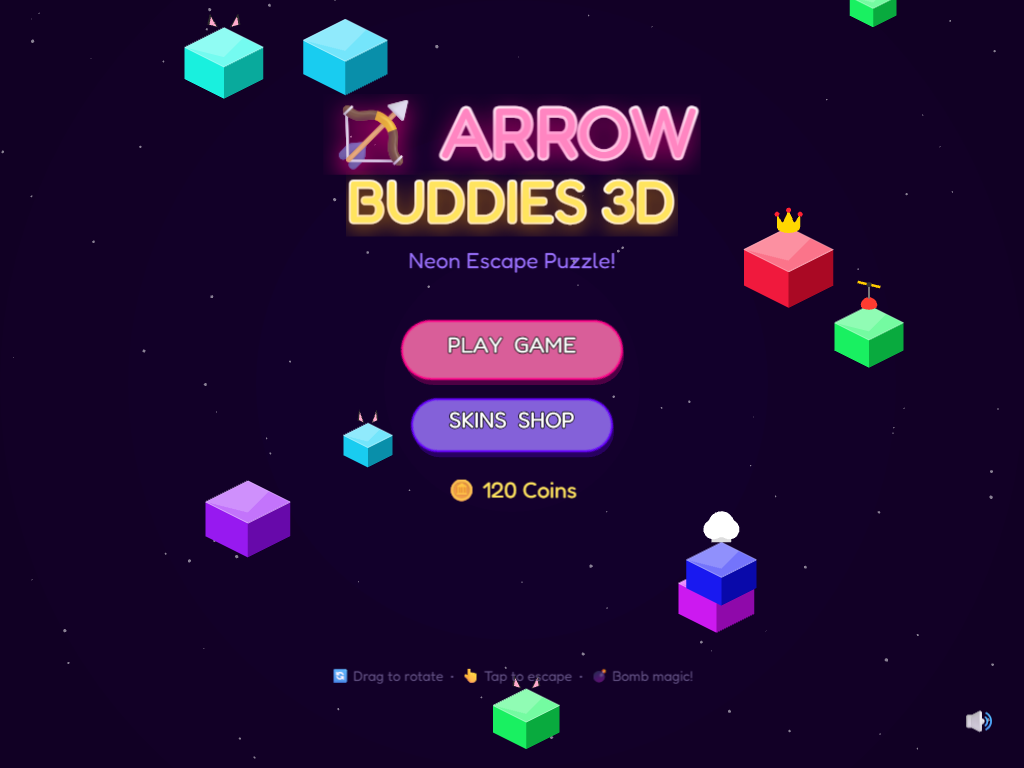
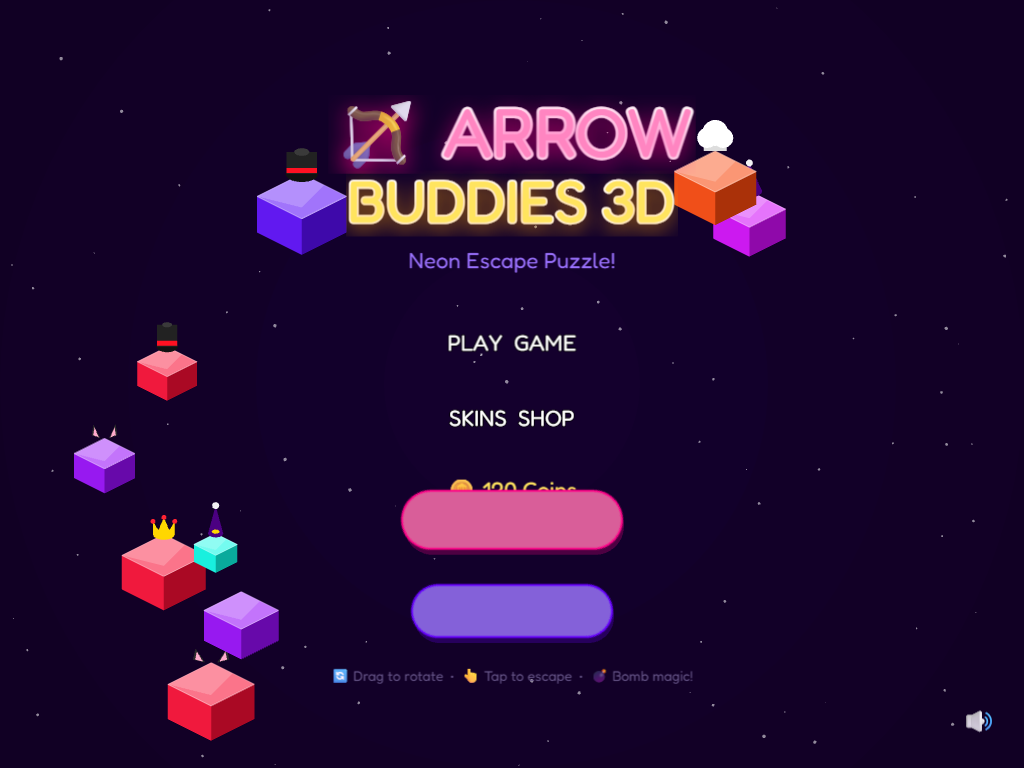
readme

diff --git a/README.md b/README.md
@@ -1,27 +1,144 @@
-# 🏹 Arrow Buddies 3D — Мила Головоломка-Втеча! 🚀
+# 🏹 Arrow Buddies 3D — Мила Головоломка-Втеча!
+
+<p align="center">
+  <img src="assets/banner.png" alt="Arrow Buddies 3D Banner" width="100%"/>
+</p>
+
+<p align="center">
+  <strong>🌟 Неонова 3D головоломка для дітей і дорослих! 🌟</strong><br/>
+  Грай прямо в браузері — на телефоні, планшеті чи комп'ютері!
+</p>
+
+---
+
+## 📸 Скріншоти гри
+
+<table>
+  <tr>
+    <td align="center">
+      <img src="assets/menu.png" alt="Головне меню" width="460"/><br/>
+      <em>🏠 Головне меню</em>
+    </td>
+    <td align="center">
+      <img src="assets/world_select.png" alt="Вибір Світу" width="460"/><br/>
+      <em>🌍 Вибір Світу</em>
+    </td>
+  </tr>
+</table>
+
+---
+
+## 🎮 Як грати?
 
 Привіт, друже! Ласкаво просимо до **Arrow Buddies 3D** — найкрутішої та найяскравішої 3D гри-головоломки! Твої маленькі блочні друзі загубилися у великому світі і не можуть вибратися. На кожному з них намальована стрілочка, яка показує напрямок, куди вони хочуть стрибнути. Твоя мета — допомогти їм втекти!
 
-## 🎮 Як грати?
-1. **Шукай вільний шлях:** Блок може втекти тільки тоді, коли перед ним (куди показує стрілка) немає інших блоків.
-2. **Тапай (клікай) по блоку**, щоб він полетів! Якщо шлях заблоковано, він смішно вдариться об сусіда і залишиться на місці.
-3. **Очисти весь рівень**, щоб перемогти та отримати Зірки ⭐!
-4. **Використовуй мишку або палець (на телефоні)**, щоб крутити камеру і розглядати фігуру з усіх боків. Ти знайдеш заховані шляхи!
+1. 👆 **Тапай (клікай) по блоку**, щоб він полетів у свій бік!
+2. 🔍 **Шукай вільний шлях** — блок летить тільки якщо перед ним немає інших
+3. 🌀 **Крути камеру** пальцем або мишкою, щоб знайти приховані шляхи
+4. ⭐ **Очисти весь рівень** — виграй і збери зірки!
 
-## 🎁 Спеціальні блоки!
-У цій грі не все так просто, на тебе чекають сюрпризи:
-- 🌈 **Веселкові блоки:** Вони супер-круті! Летять куди завгодно, якщо шлях вільний!
-- 💣 **Бомби:** Якщо ти натиснеш на бомбу, і вона полетить, то вибухне і знищить усі інші блоки на своєму шляху!
-- 🔑 **Ключі:** Використовуй ключі, щоб...
-- 🧰 **Скрині:** ...відкривати скрині! Без ключа скриню не прибрати!
+> 💡 **Підказка:** Якщо блок вдариться об іншого, він залишиться на місці — думай наперед!
 
-## 👕 Магазин Скінів (Капелюхи!)
-Заробляй монетки 🪙 на рівнях і купуй круті 3D капелюхи для своїх друзів! 
-Ти можеш одягнути їм Корону 👑, Капелюх Чарівника 🧙♂️, Котячі Вушка 🐱, Шапку Шеф-кухаря 👨🍳 або навіть Кепку з пропелером, що крутиться!
+---
+
+## 🎁 Спеціальні блоки
+
+| Блок | Назва | Що робить |
+|------|-------|-----------|
+| 🌈 | **Веселковий** | Летить куди завгодно, якщо шлях вільний! |
+| 💣 | **Бомба** | Вибухає і знищує всі блоки на шляху! |
+| 🔑 | **Ключ** | Використовуй, щоб відкрити Скриню |
+| 🧰 | **Скриня** | Потребує Ключа — без нього не зникне |
+
+---
 
 ## 🌍 Світи
-- **Jelly Hills (Желейні Пагорби):** Легкий старт! Милі рожеві кольори та прості фігури.
-- **Dino Valley (Долина Динозаврів):** Зелені джунглі! З'являються бомби та ключі. Думай на крок вперед!
-- **Cosmo Station (Космічна Станція):** Темний космос з яскравим неоном. Тут тебе чекають справжні мега-головоломки з величезною кількістю блоків!
 
-**Бажаємо тобі успіхів, юний герой! Покажи цим блокам шлях до свободи! 🎉**
+### 🌸 Jelly Hills — Желейні Пагорби
+> Легкий старт! Милі рожеві та пурпурні кольори, прості фігури. Ідеально для початківців!
+
+### 🦕 Dino Valley — Долина Динозаврів
+> Зелені джунглі! З'являються бомби та ключі. Треба думати на кілька ходів вперед!
+
+### 🚀 Cosmo Station — Космічна Станція
+> Темний космос з яскравим неоном! Мега-головоломки з величезними структурами — тільки для справжніх героїв!
+
+---
+
+## 👕 Магазин Скінів
+
+Заробляй монетки 🪙 під час гри і купуй круті 3D капелюхи для своїх блочних друзів!
+
+| Капелюх | Назва |
+|---------|-------|
+| 🧙♂️ | Чарівний Ковпак |
+| 👑 | Золота Корона з Рубінами |
+| 🐱 | Котячі Вушка |
+| 🎩 | Елегантний Циліндр |
+| 👨🍳 | Шапка Шеф-кухаря |
+| 🌈 | Веселковий Ореол |
+| 🚁 | Кепка з Пропелером (крутиться!) |
+
+---
+
+## 🛠️ Технічний стек
+
+| Технологія | Призначення |
+|-----------|-------------|
+| **Phaser 3** | Ігровий рушій (сцени, фізика, частинки) |
+| **TypeScript** | Основна мова програмування |
+| **Vite** | Збирач та dev-сервер |
+| **Isometric Rendering** | Власний рушій ізометричної 3D графіки |
+
+---
+
+## 🚀 Як запустити?
+
+```bash
+# Встановити залежності
+npm install
+
+# Запустити в режимі розробки
+npm run dev
+
+# Зібрати для продакшн
+npm run build
+```
+
+Відкрий браузер на **http://localhost:5173/**
+
+---
+
+## 🗺️ Наступні кроки розробки (Roadmap)
+
+### 🔴 Пріоритет 1 — Критичне (Short-term)
+- [ ] **Звукові ефекти** — Більше різноманітних звуків (спеціальні звуки для бомб, корони, ключів)
+- [ ] **Анімація перемоги** — Покращена анімація зірок та конфетті на екрані Victory
+- [ ] **Збереження прогресу** — Зберігати відкриті рівні та зірки між сесіями (localStorage)
+- [ ] **Оптимізація мобільного вводу** — Покращення чутливості тапу та свайпу на телефонах
+
+### 🟡 Пріоритет 2 — Нові функції (Mid-term)
+- [ ] **Більше Світів (4, 5, 6)** — Підводний Світ 🐠, Замок Льоду ❄️, Вулканічна Земля 🌋
+- [ ] **Нові типи блоків**:
+  - 🪞 **Дзеркало** — відбиває напрям сусідніх блоків
+  - 🧲 **Магніт** — притягує сусідні блоки перед польотом
+  - ⏱️ **Таймер** — блок вибухає через 3 ходи!
+- [ ] **Множник Комбо** — Ланцюгові реакції дають +2x, +3x монети
+- [ ] **Дейлі Челленджі** — Щоденне завдання з унікальною нагородою
+- [ ] **Таблиця Рекордів** — Топ 10 гравців за кожним рівнем
+
+### 🟢 Пріоритет 3 — Розширення (Long-term)
+- [ ] **Мультиплеєр** — Грати проти друга в режимі "хто швидше очистить рівень"
+- [ ] **Редактор Рівнів** — Створюй власні головоломки та ділись з друзями
+- [ ] **Система Досягнень** — Значки за особливі успіхи (наприклад, "Майстер Комбо")
+- [ ] **Анімовані Персонажі** — Блоки з мімікою: радіють, засмучуються, сміються
+- [ ] **PWA / Офлайн режим** — Гра без інтернету як застосунок
+- [ ] **App Store / Google Play** — Публікація як нативний мобільний додаток
+
+---
+
+## 👨💻 Внесок
+
+Гра розроблена з ❤️ для юних гравців 7-11 років. Будь-які пропозиції та pull requests вітаються!
+
+**Бажаємо тобі успіхів, юний герою! 🎉**